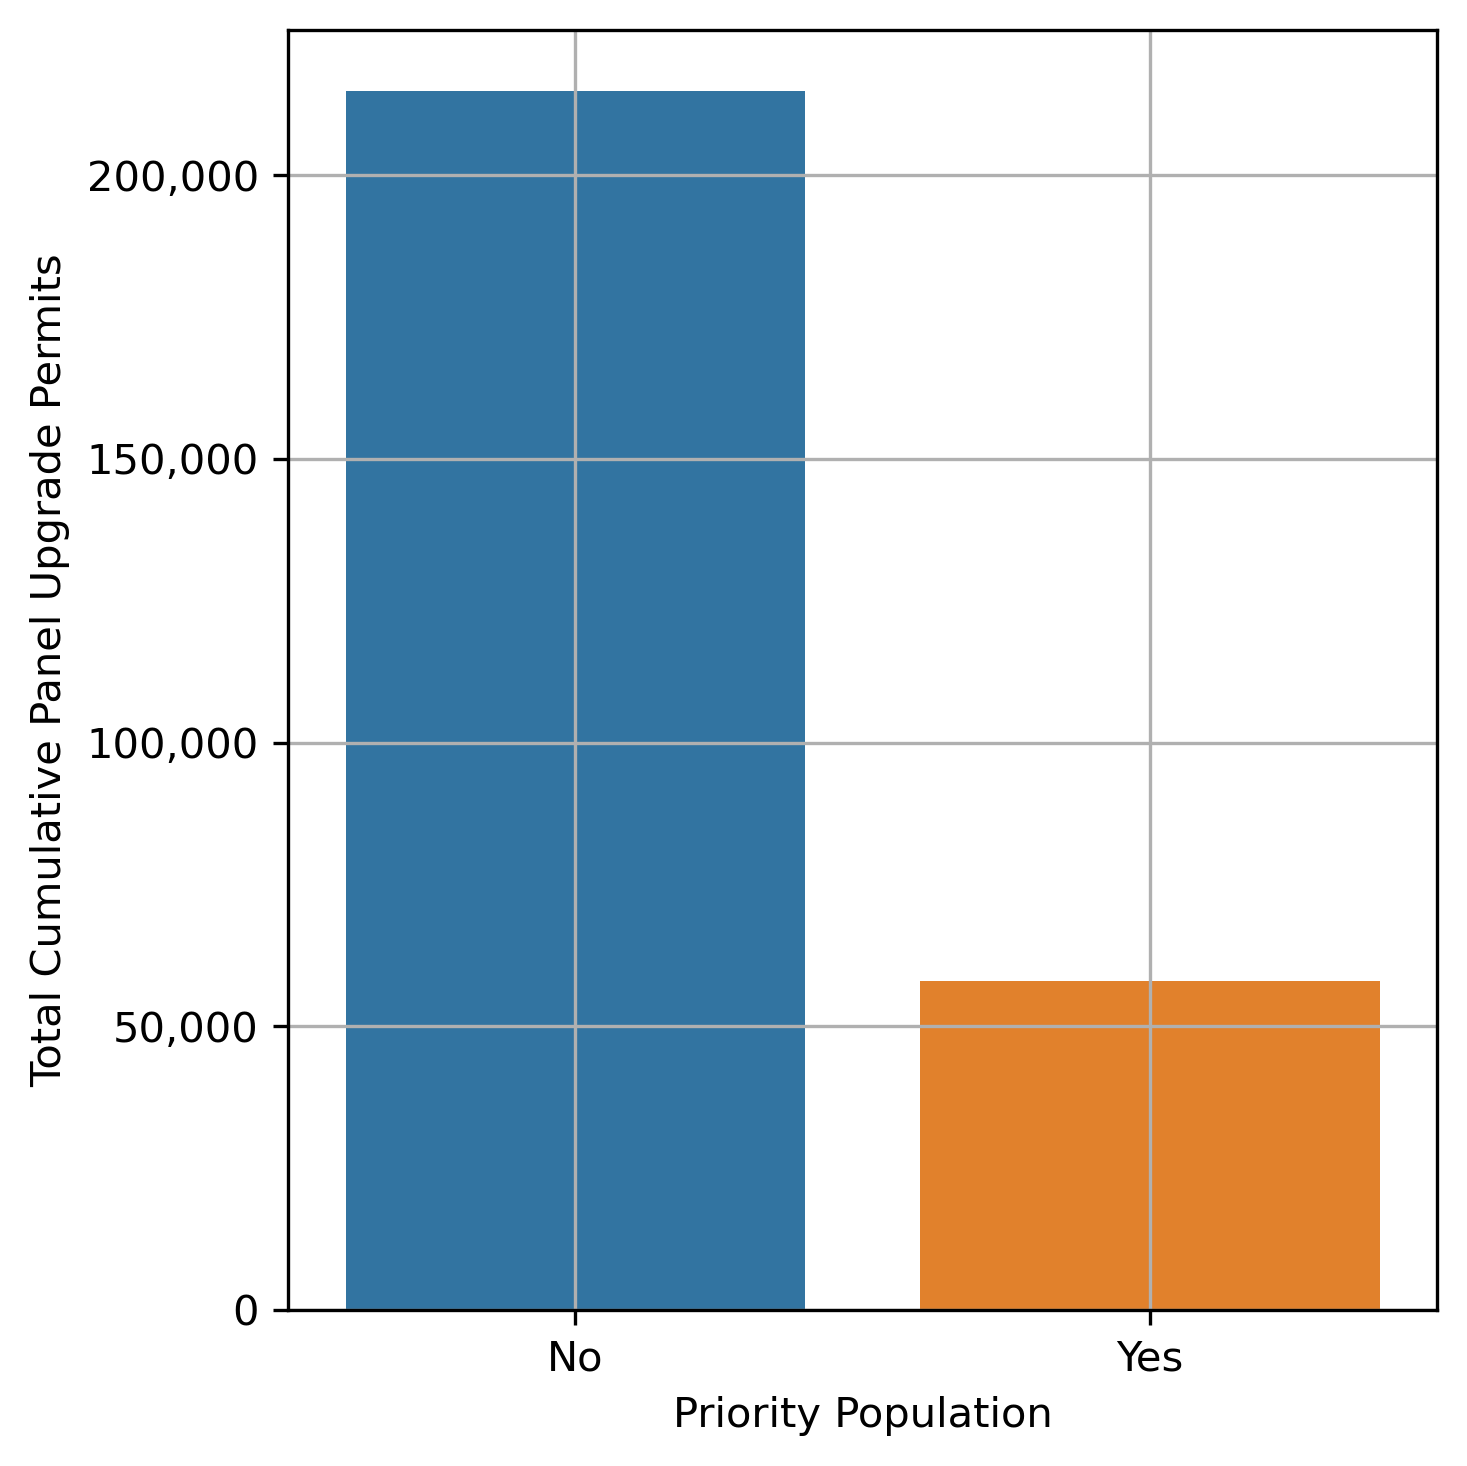
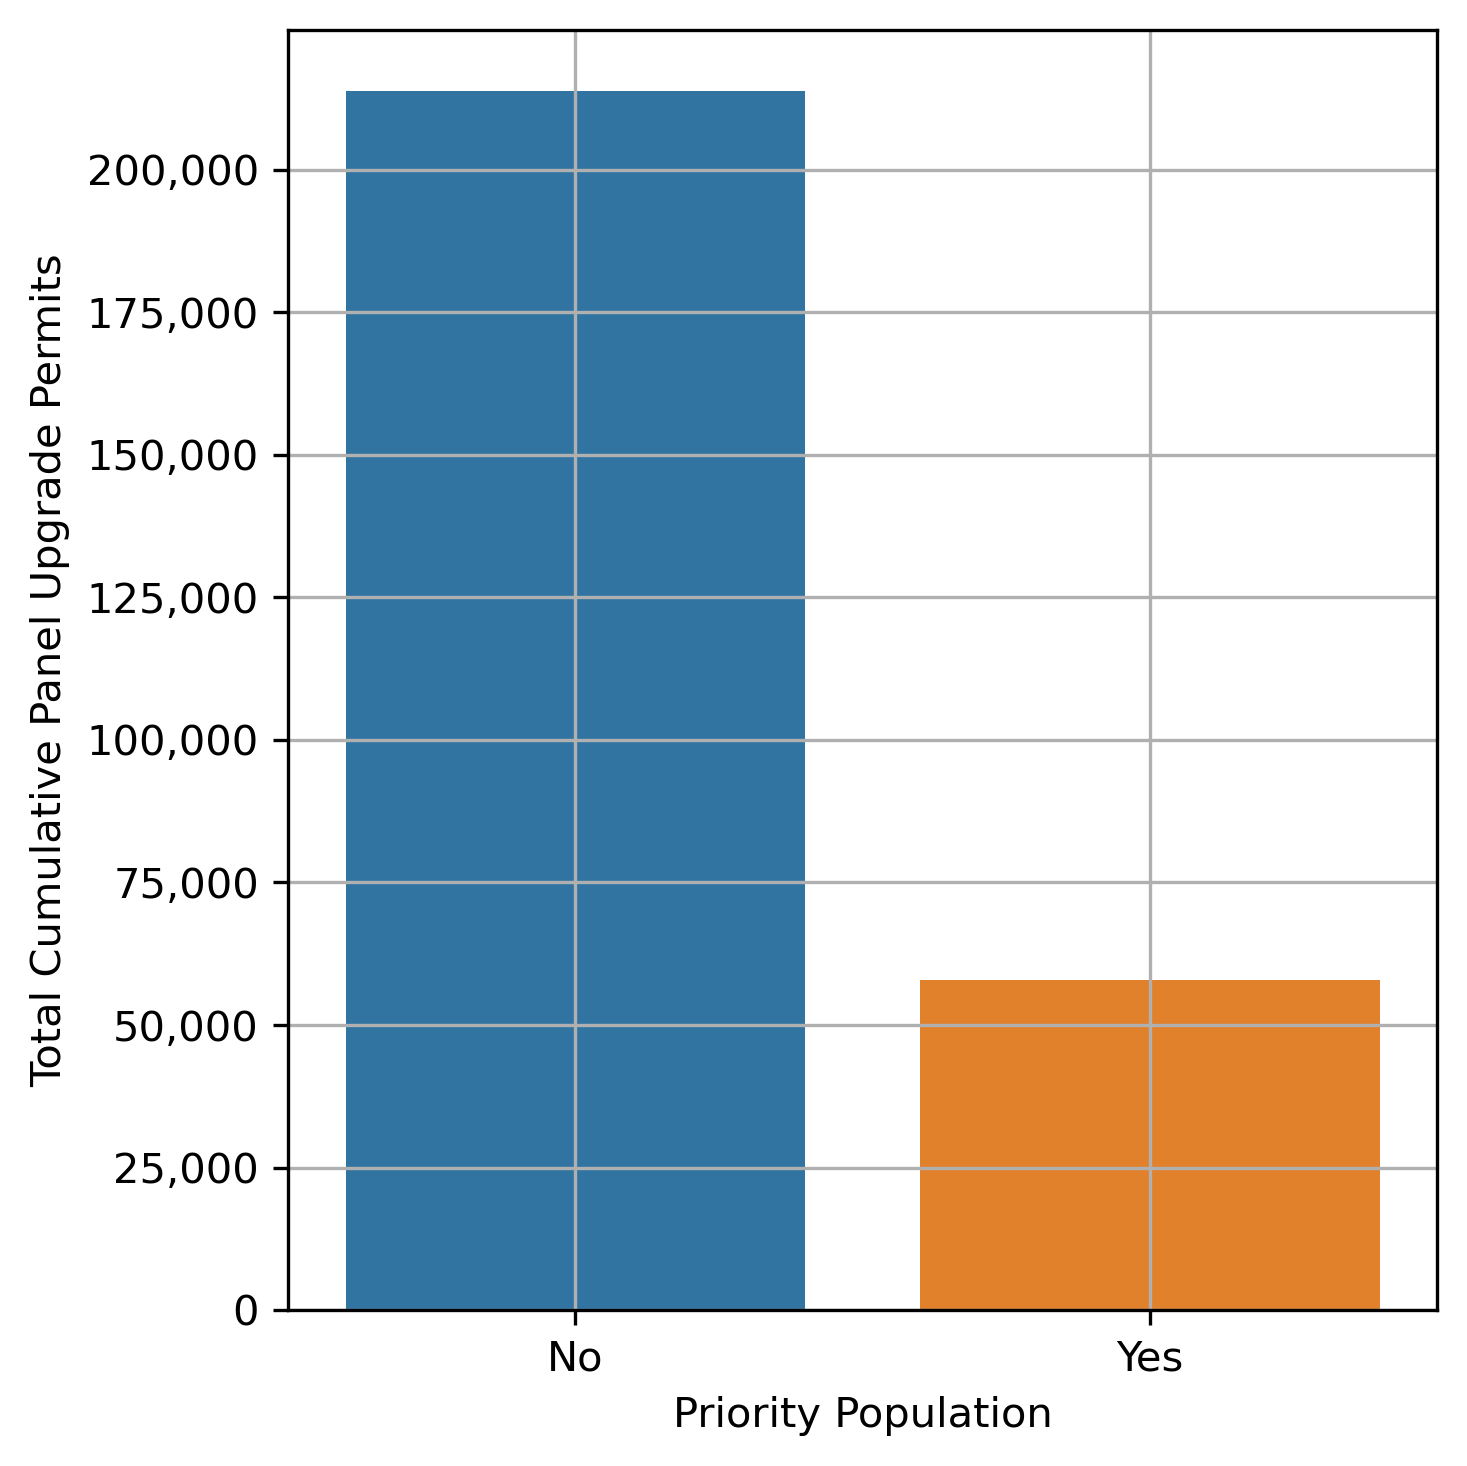
Modify plot routines for mf/sf support

diff --git a/analyses/model_data/model_data_analysis.py b/analyses/model_data/model_data_analysis.py
@@ -31,13 +31,13 @@ db_con = sql.create_engine(db_con_string)
 
 query = ''' SELECT  A.*,
                     B.permitted_panel_upgrade,
-                    B.ces_bin,
-                    B.previous_upgrade,
+                    B.observed_panel_upgrade,
                     B.inferred_panel_upgrade,
-                    B.panel_size_existing,
                     B.any_panel_upgrade,
+                    B.panel_size_existing,
                     C.air_district,
                     C.county_name,
+                    C.county_air_basin_district_id,
                     C.tract_geoid_2019
             FROM ztrax.model_data AS A
             JOIN ztrax.model_data_sf_inference AS B
@@ -56,13 +56,13 @@ sf['priority_populatio']
 
 query = ''' SELECT  A.*,
                     B.permitted_panel_upgrade,
-                    B.ces_bin,
-                    B.previous_upgrade,
+                    B.observed_panel_upgrade,
                     B.inferred_panel_upgrade,
-                    B.panel_size_existing,
                     B.any_panel_upgrade,
+                    B.panel_size_existing,
                     C.air_district,
                     C.county_name,
+                    C.county_air_basin_district_id,
                     C.tract_geoid_2019
             FROM ztrax.model_data AS A
             JOIN ztrax.model_data_mf_inference AS B
@@ -85,6 +85,11 @@ air_districts = gpd.read_postgis(query, db_con, geom_col = 'geom')
 query = '''SELECT * FROM census.acs_ca_2019_county_geom;'''
 counties = gpd.read_postgis(query, db_con, geom_col = 'geometry')
 
+#%% Extract County Air Basin District Geographic Boundaries
+
+query = ''' SELECT  * FROM carb.ca_county_air_basin_districts;'''
+county_air_basin_districts = gpd.read_postgis(query, db_con, geom_col = 'geom')
+
 #%% Extract Census Boundaries
 
 query = '''SELECT * FROM census.acs_ca_2019_tr_geom;'''
@@ -94,8 +99,13 @@ tracts = gpd.read_postgis(query, db_con, geom_col = 'geometry')
 
 def PrintStatsTable(mp, sector):
 
-    bins = [0, 99, 100, 101, 199, 200, 201, 2000]
-    labels = ['0 - 99', '100', '101 - 199', '101 - 199', '200', '>201', '>201']
+    if sector == 'single_family':
+        bins = [0, 99, 100, 101, 199, 200, 201, 2000]
+        labels = ['0 - 99', '100', '101 - 199', '101 - 199', '200', '>201', '>201']
+    elif sector == 'multi_family':
+        bins = [0, 89, 90, 91, 149, 150, 151, 2000]
+        labels = ['0 - 89', '90', '91 - 149', '91 - 149', '150', '>150', '>150']
+
     mp['panel_size_class'] = pd.cut(mp['panel_size_existing'],
         bins = bins,
         labels = labels,
@@ -120,14 +130,20 @@ def PrintStatsTable(mp, sector):
 # 200	        19,109	33%
 # >200	        5,915	10%
 
-stats = PrintStatsTable(sf, 'single_family')
+sf_stats = PrintStatsTable(sf, 'single_family')
+mf_stats = PrintStatsTable(mf, 'multi_family')
 
 #%% Generate Statistic Table
 
 def PrintDACStatsTable(mp, sector):
 
-    bins = [0, 99, 100, 101, 199, 200, 201, 2000]
-    labels = ['0 - 99', '100', '101 - 199', '101 - 199', '200', '>201', '>201']
+    if sector == 'single_family':
+        bins = [0, 99, 100, 101, 199, 200, 201, 2000]
+        labels = ['0 - 99', '100', '101 - 199', '101 - 199', '200', '>201', '>201']
+    elif sector == 'multi_family':
+        bins = [0, 89, 90, 91, 149, 150, 151, 2000]
+        labels = ['0 - 89', '90', '91 - 149', '91 - 149', '150', '>150', '>150']
+
     mp['panel_size_class'] = pd.cut(mp['panel_size_existing'],
         bins = bins,
         labels = labels,
@@ -144,9 +160,8 @@ def PrintDACStatsTable(mp, sector):
 
 #%% Print DAC Stats Table
 
-stats = PrintDACStatsTable(sf, 'single_family')
-
-# TODO: Continue migration from "mp" to "sf"/"mf" in the following...
+sf_stats = PrintDACStatsTable(sf, 'single_family')
+mf_stats = PrintDACStatsTable(mf, 'multi_family')
 
 #%% Plot SF as built panel size ratings
 
@@ -225,7 +240,8 @@ def AsBuiltPanelRatingsHist(mp, sector, figure_dir):
 
 #%% Generate As Built Panel Rating Hist
 
-AsBuiltPanelRatingsHist(sf, sector, figure_dir)
+AsBuiltPanelRatingsHist(sf, 'single_family', figure_dir)
+AsBuiltPanelRatingsHist(mf, 'multi_family', figure_dir)
 
 #%% Plot As-Built Panel Stats
 
@@ -235,14 +251,14 @@ def AsBuiltPanelRatingsBar(mp, sector, figure_dir):
     # Compute counts
 
     if sector == 'single_family':
-        counts = mp.groupby(['dac', 'panel_size_as_built'])['sampled'].agg('count')
+        counts = mp.groupby(['dac', 'panel_size_as_built'])['panel_size_as_built'].agg('count')
         counts = counts.unstack(level= 0)
         counts.index = counts.index.astype(int)
         ylabel = 'As-Built Panel Rating \n[Amps]'
         xlabel = 'Number of Properties'
     elif sector == 'multi_family':
         # NOTE: Units field missing in current MP structure
-        counts = mp.groupby(['dac', 'panel_size_as_built'])['units'].agg('sum')
+        counts = mp.groupby(['dac', 'panel_size_as_built'])['TotalNoOfUnits'].agg('sum')
         counts = counts.unstack(level= 0)
         counts.index = counts.index.astype(int)
         ylabel = 'Average As-Built Load Center Rating per Unit \n[Amps]'
@@ -271,19 +287,20 @@ def AsBuiltPanelRatingsBar(mp, sector, figure_dir):
 
 #%% Generate As-Built Panel Ratings Bar Chart
 
-AsBuiltPanelRatingsBar(sf, sector, figure_dir)
+AsBuiltPanelRatingsBar(sf, 'single_family', figure_dir)
+AsBuiltPanelRatingsBar(mf, 'multi_family', figure_dir)
 
 #%% Plot Cumulative Permit Counts
 
-def PermitCountsBar(buildings_ces, sector, figure_dir):
+def PermitCountsBar(mp, sector, figure_dir):
 
-    upgrade_stats = mp.loc[mp['permitted_panel_upgrade'] == True].groupby('dac')['sampled'].agg('count')
+    upgrade_stats = mp.loc[mp['permitted_panel_upgrade'] == True].groupby('dac')['panel_size_existing'].agg('count')
     upgrade_stats = pd.DataFrame(upgrade_stats).reset_index()
 
     fig, ax = plt.subplots(1, 1, figsize = (5,5), sharex = True)
 
     sns.barplot(data = upgrade_stats,
-        y = 'sampled',
+        y = 'panel_size_existing',
         x = 'dac',
         order = ['No','Yes'],
         label = ['No','Yes'],
@@ -307,7 +324,8 @@ def PermitCountsBar(buildings_ces, sector, figure_dir):
 
 #%% Generate Permit Count Barchart
 
-PermitCountsBar(sf, sector, figure_dir)
+PermitCountsBar(sf, 'single_family', figure_dir)
+PermitCountsBar(mf, 'multi_family', figure_dir)
 
 #%% Plot Existing panel size ratings
 
@@ -322,7 +340,7 @@ def ExistingPanelRatingsHist(mp, sector, figure_dir):
     non_dac_sample = mp.loc[non_dac_ind,:]
 
     if sector == 'single_family':
-        yticks = [30,60,100, 125, 150, 200, 225, 320, 400, 600, 800, 1000, 1200]
+        yticks = [30, 60, 100, 125, 150, 200, 225, 320, 400, 600, 800, 1000, 1200]
         ylim = (0, 1220)
         ylabel = 'Existing Panel Rating \n[Amps]'
         bins = 80
@@ -386,7 +404,8 @@ def ExistingPanelRatingsHist(mp, sector, figure_dir):
 
 #%% Generate Existing Panel Size Rating 2D-Histogram
 
-ExistingPanelRatingsHist(sf, sector, figure_dir)
+ExistingPanelRatingsHist(sf, 'single_family', figure_dir)
+ExistingPanelRatingsHist(mf, 'multi_family', figure_dir)
 
 #%% Joint Distribution Plot
 
